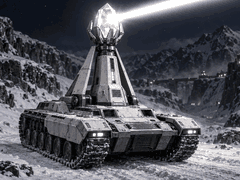
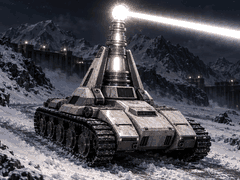
ra: lumen tower and tank get a ring coil and glowing ball
Replaces the pale blue diamond with a stack of rings narrowing up a
glowing rod to a ball, all lit in the side's color; the beam now leaves
from the ball. New build-menu pictures for both.

Claude-Session: https://claude.ai/code/session_01GkhuZW2TRcpp3LJBNSvrCH

diff --git a/apps/ra/src/v2/sprites.ts b/apps/ra/src/v2/sprites.ts
@@ -488,32 +488,39 @@ function scorchTurret(f: Faction): Shape {
   };
 }
 
-// Lumen crystal colors: a pale lens that lights white-hot as it fires.
-const LENS = hex('#bfe6f2');
-const LENS_D = hex('#6aa9c4');
-const LENS_L = hex('#f2fbff');
-
-// A faceted crystal (two pyramids base to base) centered on (cu, cv, cz).
-function crystal(u: number, v: number, z: number, cu: number, cv: number, cz: number, rad: number, half: number): RGB | null {
-  const du = u - cu;
-  const dv = v - cv;
-  const dz = z - cz;
-  const r = Math.max(Math.abs(du), Math.abs(dv), (Math.abs(du) + Math.abs(dv)) * 0.72);
-  if (Math.abs(dz) / half + r / rad > 1) return null;
-  const face = Math.floor((Math.atan2(dv, du) + Math.PI) / (Math.PI / 4)) % 8;
-  if (r / rad > 1 - Math.abs(dz) / half - 0.14) return face % 2 ? (dz > 0 ? LENS : LENS_D) : dz > 0 ? LENS_L : LENS;
-  return LENS_D;
+// The Lumen emitter, on the tower and the tank: a stack of rings narrowing
+// up a glowing rod to a bright ball, which the beam leaves from. Its foot is
+// at `foot`, drawn s times the tank's size; the ball's middle is COIL_BALL * s
+// above the foot.
+const COIL_BALL = 6.3;
+function coil(f: Faction, u: number, v: number, z: number, foot: number, s: number): RGB | null {
+  const x = u / s;
+  const y = v / s;
+  const w = (z - foot) / s;
+  if (w < 0 || w > COIL_BALL + 1.6 || Math.abs(x) > 2.6 || Math.abs(y) > 2.6) return null;
+  const glow = glowOf(f);
+  const core = mix(glow, WHITE, 0.6);
+  const d = Math.hypot(x, y);
+  const ball = Math.hypot(x, y, w - COIL_BALL);
+  if (ball < 1.5) return ball < 0.9 || (x > 0.2 && w > COIL_BALL + 0.3) ? core : glow;
+  if (w < 5.4) {
+    if (d < 0.6) return glow;
+    const k = Math.floor(w / 0.9);
+    if (w - k * 0.9 < 0.45 && d < 2.5 - k * 0.22) return d > 2.1 - k * 0.22 ? f.light : k % 2 ? COPPER : GUN_L;
+  }
+  return null;
 }
 
 // The Lumen tank's turret: a turntable carrying a tall emitter mast, braced
-// by two fins of the side's color, with a big crystal held up high in a
-// cradle at its top (which the beam leaves from: LUMEN_Z).
-export const LUMEN_Z = 15.6;
+// by two fins of the side's color, with the emitter coil standing on a collar
+// at its top (its ball, which the beam leaves from, is LUMEN_Z up).
+const LUMEN_FOOT = 12.8;
+export const LUMEN_Z = LUMEN_FOOT + COIL_BALL;
 function lumenTurret(f: Faction): Shape {
   const glow = glowOf(f);
   return (u, v, z) => {
     if (z < 5) return null;
-    const c = crystal(u, v, z, 0, 0, LUMEN_Z, 2.8, 3.8);
+    const c = coil(f, u, v, z, LUMEN_FOOT, 1);
     if (c) return c;
     const d = Math.hypot(u + 0.3, v);
     const av = Math.abs(v);
@@ -532,14 +539,8 @@ function lumenTurret(f: Faction): Shape {
     // the two fins either side, sweeping up from the turntable to the cradle
     const fo = 3.6 - (z - 6.8) * 0.42;
     if (z < 12.4 && Math.abs(av - Math.max(1.2, fo)) < 0.45 && Math.abs(u + (z - 6.8) * 0.15) < 1.8 - (z - 6.8) * 0.18) return z > 11.6 ? f.light : g(f.main, u, v, z);
-    // the cradle: a collar and four prongs round the crystal
-    if (z >= 12 && z < 13 && Math.hypot(u, v) < 2.2) return z > 12.6 ? f.light : GUN_D;
-    if (z >= 13 && z < 17.4) {
-      const pr = 1.8 + (z - 13) * 0.5 - Math.max(0, z - 15.8) * 1.2;
-      const ph = mod(Math.atan2(v, u) / (Math.PI / 2) + 0.5, 1);
-      const r = Math.hypot(u, v);
-      if (Math.abs(r - pr) < 0.45 && Math.min(ph, 1 - ph) * (Math.PI / 2) * r < 0.5) return GUN_L;
-    }
+    // the collar the coil stands on
+    if (z >= 12 && z < LUMEN_FOOT && Math.hypot(u, v) < 2.2) return z > 12.5 ? f.light : GUN_D;
     // a counterweight box behind
     if (u < -2.4 && u > -5 && av < 2 && z < 8) return z > 7.5 ? mix(f.main, f.light, 0.4) : f.main;
     return null;
@@ -1544,7 +1545,7 @@ export function makeFactionArt(f: Faction): V2FactionArt {
     scorchTank: renderDirs(tankHull(f, 17, 12.5, false), DIRS, { r: 11, zmax: 7, bakeShadow: true }, k('scorchTank')),
     scorchTurret: renderDirs(scorchTurret(f), DIRS, { r: 10, zmax: 10 }, k('scorchTurret')),
     lumenTank: renderDirs(tankHull(f, 17, 13.5, false), DIRS, { r: 11, zmax: 7, bakeShadow: true }, k('lumenTank')),
-    lumenTurret: renderDirs(lumenTurret(f), DIRS, { r: 6, zmax: 20 }, k('lumenTurret')),
+    lumenTurret: renderDirs(lumenTurret(f), DIRS, { r: 6, zmax: 21 }, k('lumenTurret')),
     aaGun: renderDirs(aaLauncher(f), DIRS, { r: 7.5, zmax: 10 }, k('aaGun')),
     heron: renderDirs(heron(f), DIRS, { r: 13, zmax: 11 }, k('heron')),
     jet: renderDirs(jet(f), DIRS, { r: 11, zmax: 8 }, k('jet')),
@@ -2300,9 +2301,10 @@ function buildingShape(kind: BuildingKind, f: Faction): { shape: Shape; glow?: S
     }
     case 'prism': {
       // Lumen tower: a stepped round plinth, a tall column braced by four
-      // fins of the side's color that sweep up into it, an emitter cradle and
-      // a big crystal at the very top, which the beam leaves from.
-      const CZ = 40;
+      // fins of the side's color that sweep up into it, and the emitter coil
+      // at the very top, whose ball the beam leaves from.
+      const FOOT = 34.4;
+      const S = 1.75;
       const shape: Shape = (u, v, z) => {
         const d = Math.hypot(u, v);
         const a = Math.atan2(v, u);
@@ -2312,7 +2314,7 @@ function buildingShape(kind: BuildingKind, f: Faction): { shape: Shape; glow?: S
           if (z > 4.2 && z < 5.2) return mod(a * 8 / Math.PI, 1) < 0.25 ? f.dark : glow;
           return z > 5.6 ? PLAS_L : g(PLAS_D, u, v, z);
         }
-        const c = crystal(u, v, z, 0, 0, CZ, 4.4, 6.2);
+        const c = coil(f, u, v, z, FOOT, S);
         if (c) return c;
         // the column, tapering as it rises, with glowing slits between the fins
         if (z >= 6.4 && z < 34) {
@@ -2329,16 +2331,11 @@ function buildingShape(kind: BuildingKind, f: Faction): { shape: Shape; glow?: S
           const w = Math.min(ph, 1 - ph) * (Math.PI / 2) * d; // distance across the blade
           if (w < 0.7 && d < fr) return d > fr - 0.8 ? f.light : z < 9 ? f.dark : g(f.main, u, v, z);
         }
-        // collars at the top of the column and the cradle's four prongs
-        if (z >= 32.4 && z < 34.4 && d < 3.8) return z < 33 ? GUN_D : z > 33.8 ? f.light : g(f.main, u, v, z);
-        if (z >= 34.4 && z < 44) {
-          const pr = 2.6 + (z - 34.4) * 0.5 - Math.max(0, z - 40.5) * 1.1;
-          const ph = mod(a / (Math.PI / 2), 1);
-          if (Math.abs(d - pr) < 0.55 && Math.min(ph, 1 - ph) * (Math.PI / 2) * d < 0.6) return z > 42 ? f.light : GUN;
-        }
+        // the collar at the top of the column, which the coil stands on
+        if (z >= 32.4 && z < FOOT && d < 3.8) return z < 33 ? GUN_D : z > 33.8 ? f.light : g(f.main, u, v, z);
         return null;
       };
-      return { shape, rx: 8, ry: 8, zmax: 47, fx: [{ x: 0, y: 0, z: CZ }] };
+      return { shape, rx: 8, ry: 8, zmax: 49, fx: [{ x: 0, y: 0, z: FOOT + COIL_BALL * S }] };
     }
     case 'aa': {
       // Skyguard battery: a round raised emplacement with the launcher's

diff --git a/apps/ra/src/v2/combat.ts b/apps/ra/src/v2/combat.ts
@@ -251,7 +251,7 @@ export function muzzles(kind: UnitKind | DefenseKind, x: number, y: number, z: n
     case 'scorch':
       return [at(px, py, tur, 9.2, 1.3, 6.6), at(px, py, tur, 9.2, -1.3, 6.6)];
     case 'lumen':
-      return [at(px, py, tur, 0, 0, 15.6)]; // the crystal (LUMEN_Z in sprites.ts)
+      return [at(px, py, tur, 0, 0, 19.1)]; // the coil's ball (LUMEN_Z in sprites.ts)
     case 'tower':
       return [at(x, y, tur, 11.2, 1.15, 1.45), at(x, y, tur, 11.2, -1.15, 1.45)];
     case 'prism':

diff --git a/apps/ra/CAMEOS.md b/apps/ra/CAMEOS.md
@@ -35,7 +35,7 @@ What is used now, so a new one can be different:
 | depot | round repair pad, four arched orange pylons meeting in a ring, hoist | orange girders, asphalt | industrial yard, dusk, floodlights |
 | wall | run of crenellated concrete block wall with a corner | grey concrete | autumn hills |
 | aa | four-tube missile launcher tilted up, firing, sandbagged pad | khaki, olive | steppe, big cloudy sky |
-| prism | very tall spire with four swept fins, claw cradle, blazing crystal | pale concrete, steel | coastal headland, twilight |
+| prism | very tall spire with four swept fins, ring coil topped by a blazing ball | pale concrete, steel, copper | coastal headland, twilight |
 | navy | piers with rounded ends, domed control tower, tall arched gantry crane | grey concrete, orange girders | misty harbor, morning |
 | inf | rifleman, chest up | olive drab | burning ruins |
 | gren | grenadier throwing, waist up | desert tan | mountain ridge |
@@ -51,7 +51,7 @@ What is used now, so a new one can be different:
 | arty | tracked howitzer, barrel raised, firing | desert camo | mountain ridge |
 | heavy | huge tank, two guns at the viewer | charcoal gunmetal | battlefield |
 | scorch | dome-turret tank spraying two jets of fire | dark olive | burning wheat field, sunset |
-| lumen | tank with a tall finned emitter mast holding a crystal high, firing a beam | off-white, grey | snowy mountain pass, night |
+| lumen | tank with a tall finned mast, ring coil and blazing ball firing a beam | off-white, grey, copper | snowy mountain pass, night |
 | heli | attack copter, rocket pods | olive drab | over a lake |
 | heron | tandem-rotor transport, ramp open, door gun | khaki tan, olive stripes | red canyon, golden dust |
 | jet | jump jet hovering, missiles launching | light gunmetal, off-white | stormy sea coast |
